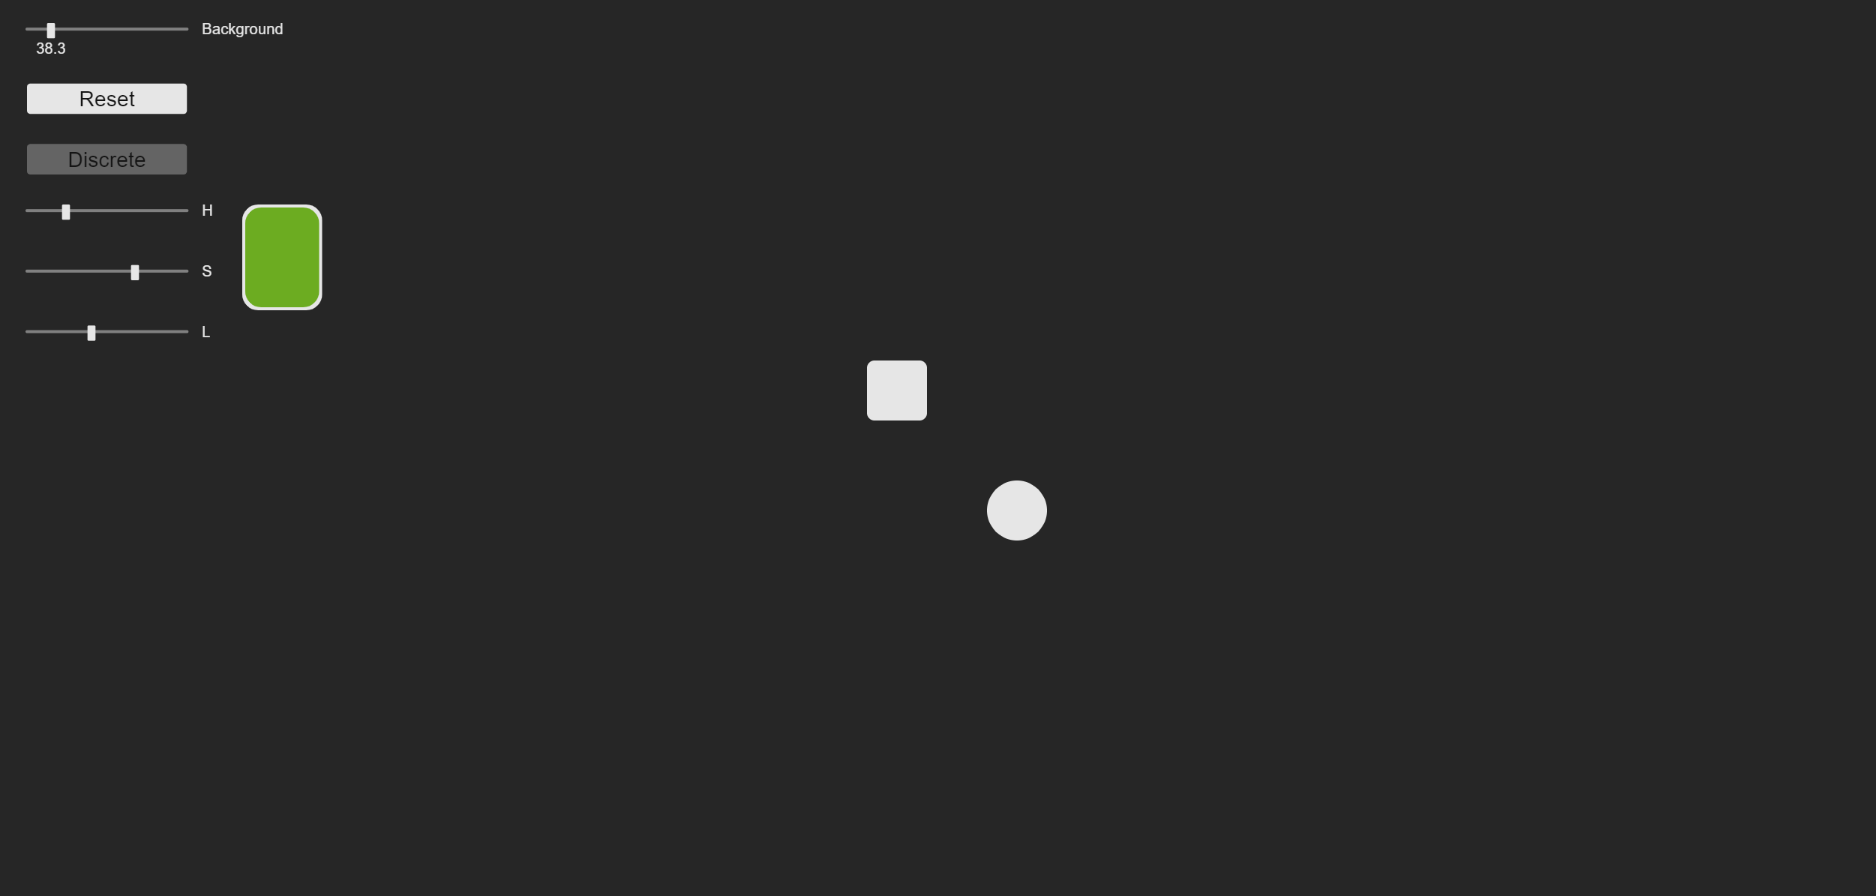
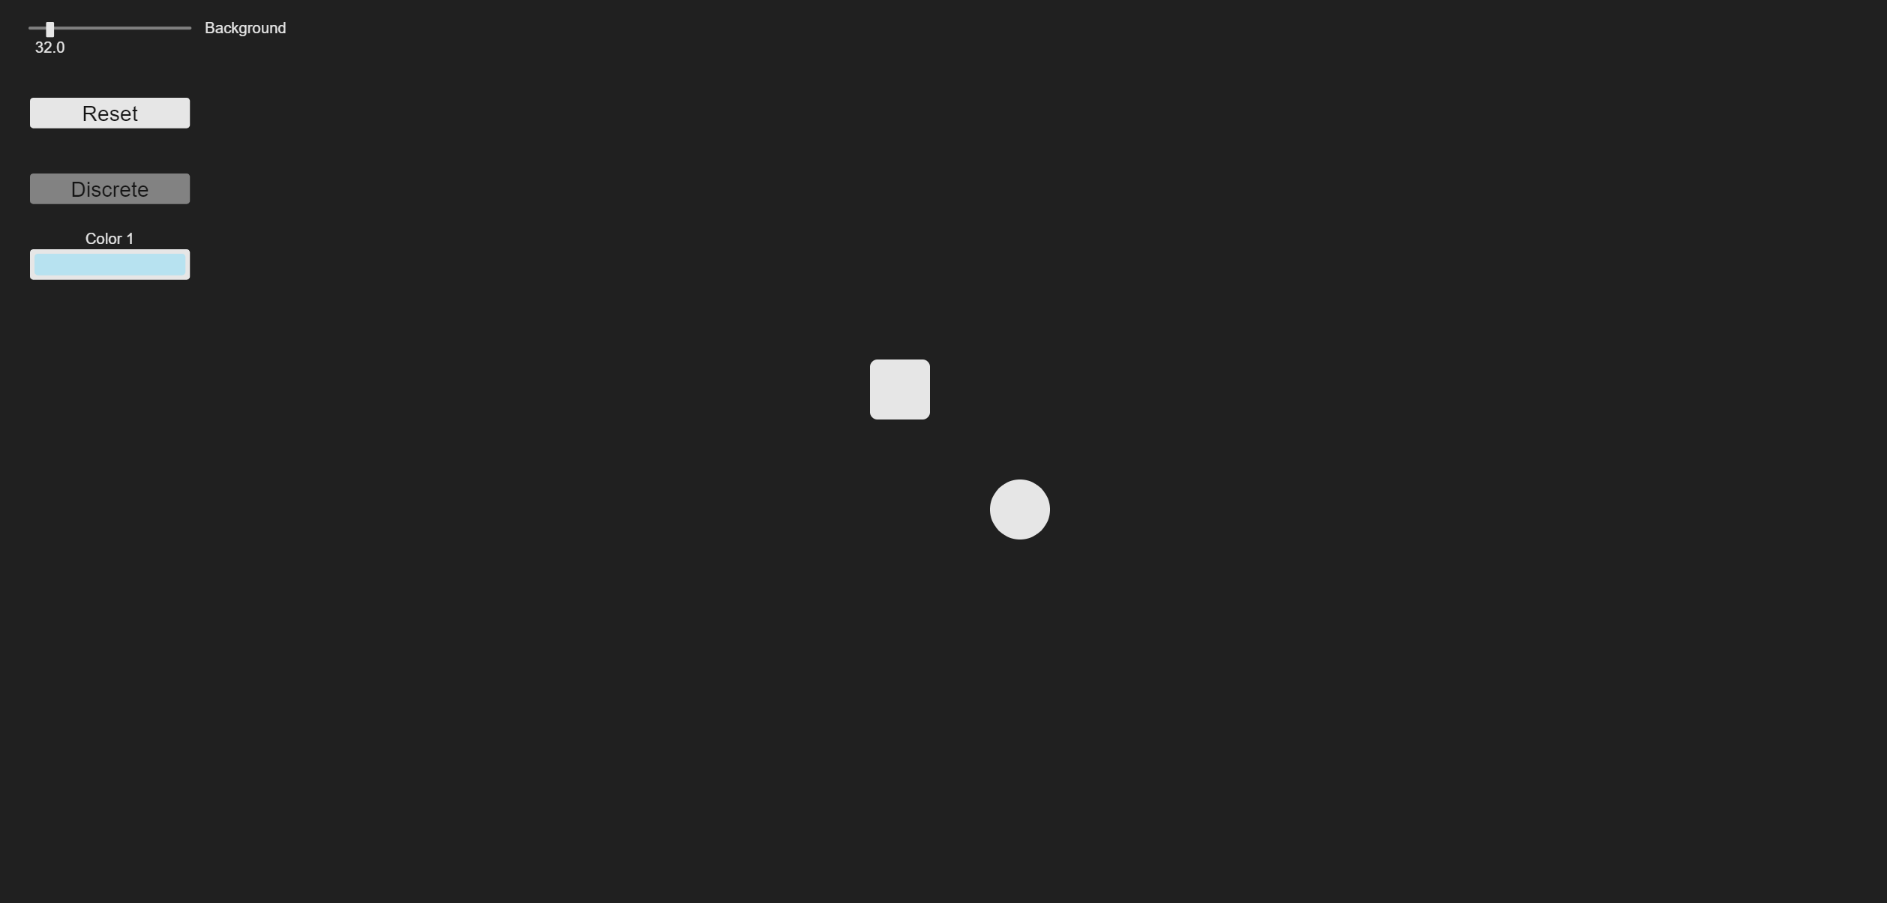
Improvement in color pickers

diff --git a/UI/color_picker.js b/UI/color_picker.js
@@ -12,49 +12,92 @@ class ColorPicker extends UiElement {
      * @param y Y position of the secon slider
      * @param width Width of the sliders
      * @param height Height of the sliders
-     * @param margins Margin between the sliders
-     * @param values Default values
+     * @param color Default color
      * @param action Action perfomed when color changes
      */
-    constructor(x=20, y=20, width=100, height=10, margins=20, nempty=0, values=null, action=null) {
-        super(x,y,width,height, false, false, false);
-        this.margins = margins;
+    constructor(x=20, y=20, width=100, height=10, color=null, text="", action=null) {
+        super(x,y,width,height, false, true);
+        this.text = text;
+        this.action = action;
 
-        let tmp;
-        this.hueSld = new Slider(0, 1, values==null ? 0.5 : values[0], x, y, width, height, null, "H", false, 0, action);
-        for(let i = 0; i < nempty; i++)
-            tmp = new UiElement();
+        this.configInput(color);
+    }
 
-        this.satSld = new Slider(0, 1, values==null ? 0.5 : values[1], x, y + height + margins, width, height, null, "S", false, 0, action);
-        for(let i = 0; i < nempty; i++)
-            tmp = new UiElement();
+    /**
+     * Create a color input element
+     * and hide it
+     * 
+     * @param color default color of the input (in hex)
+     */
+    configInput(color) {
+        // Create and configure input
+        this.input = document.createElement("input");
+        this.input.setAttribute("type", "color");
+        this.input.setAttribute("tabindex", "-1");
 
-        this.ligSld = new Slider(0, 1, values==null ? 0.5 : values[2], x, y + height*2 + margins*2, width, height, null, "L", false, 0, action);
-        for(let i = 0; i < nempty; i++)
-            tmp = new UiElement();
+        this.input.value = color==null ? "#B7E2F0" : color;        
+        this.input.style.visibility = "hidden";
+        this.input.style.position = "absolute";
+        this.input.style.left = this.x.toString() + "px";
+        this.input.style.top = this.y.toString() + "px";
+        this.input.style.height = (this.height-4).toString() + "px";
 
-        this.forceDraw = true;
+        document.body.appendChild(this.input);
+    }
+
+    /**
+     * Sets the new position of the element 
+     * and also sets the new position of the input
+     * 
+     * @param x 
+     * @param y
+     */
+    setPos(x, y) {
+        console.log("fa");
+        this.x = x;
+        this.y = y;
+        this.input.style.left = this.x.toString() + "px";
+        this.input.style.top = this.y.toString() + "px";
     }
 
     /**
      * Draws the rectangle representing the color
      */
     draw() {
-        fill(230);
-        rect(this.hueSld.x + this.satSld.getWidth() + this.margins, this.hueSld.y, this.width/2, this.height*3 + this.margins*2, this.width/10);
+        fill(this.highlighted ? 200 : 230);
+        rect(this.x, this.y, this.width, this.height, this.height/9);
+        // Draw the text
+        textAlign(CENTER);
+        textSize(this.height/2);
+        text(this.text, this.x + this.width/2, this.y - this.height/6);
 
-        colorMode(HSL, 1);
         fill(this.getColor());
-        rect(this.hueSld.x + this.satSld.getWidth() + this.margins + 2, this.hueSld.y + 2, this.width/2 - 4, this.height*3 + this.margins*2 - 4, this.width/10)
-
-        colorMode(RGB, 255);
+        rect(this.x + 3, this.y + 3, this.width - 6, this.height - 6, this.height/9);
     }
 
     /**
-     * @return an array containing the hsl values of the color
+     * @return the color choosen in this color picker
      */
     getColor() {
-        colorMode(HSL, 1);
-        return color(this.hueSld.value, this.satSld.value, this.ligSld.value);
+        return this.input.value;
+    }
+
+    /**
+     * @return The height of the element
+     */
+    getHeight() {
+        return this.text=="" ? this.height : this.height*1.5;
+    }
+
+    /**
+     * Checks if mouse is inside the button
+     * if so performs the action
+     */
+    clicked() {
+        if(this.mouseIsOver()) {
+            this.input.focus();
+            this.input.click();
+            if(this.action != null) this.action();
+        }
     }
 }

diff --git a/UI/ui.js b/UI/ui.js
@@ -30,8 +30,7 @@ class UI{
             if(e.visible) {
                 let col = this.distributed % this.tableWidth;
                 let row = floor(this.distributed / this.tableWidth);
-                e.x = colWidth*col + this.widthMargin;
-                e.y = rowHeight*row + this.heightMargin;
+                e.setPos(colWidth*col + this.widthMargin, rowHeight*row + this.heightMargin);
                 this.distributed += 1;
             }
         }    
@@ -74,7 +73,7 @@ class UI{
      */
     static draw() {
         for (let e of this.elements){
-            if(e.visible || e.forceDraw)
+            if(e.visible)
                 e.draw();
         }
     }

diff --git a/UI/ui_element.js b/UI/ui_element.js
@@ -23,7 +23,6 @@ class UiElement{
 
         this.highlighted = false;
         this.visible = visible;
-        this.forceDraw = false;
 
         UI.addElement(this);
     }
@@ -62,5 +61,16 @@ class UiElement{
      */
     mouseIsOver(){
         return mouseX >= this.x && mouseX <= this.x + this.width && mouseY >= this.y && mouseY <= this.y + this.height;
+    }
+
+    /**
+     * Sets the new position of the element 
+     * 
+     * @param x 
+     * @param y
+     */
+    setPos(x, y) {
+        this.x = x;
+        this.y = y;
     }
 }

diff --git a/sketch.js b/sketch.js
@@ -10,7 +10,7 @@ function setup() {
 	btn = new Button(x=0, y=0, width/12, height/30, "Reset", resetValue);
 	
 	tggl = new ToggleButton(0,0,width/12,height/30,"Discrete", discretice);
-	cPicker = new ColorPicker(0,0, width/12, height/60);
+	cPicker = new ColorPicker(0,0, width/12, height/30, null, "Color 1");
 
 	// Add two draggable elements
 	circle = new DragCircle(createVector(width/2 + 40, height/2 + 40), 20);
